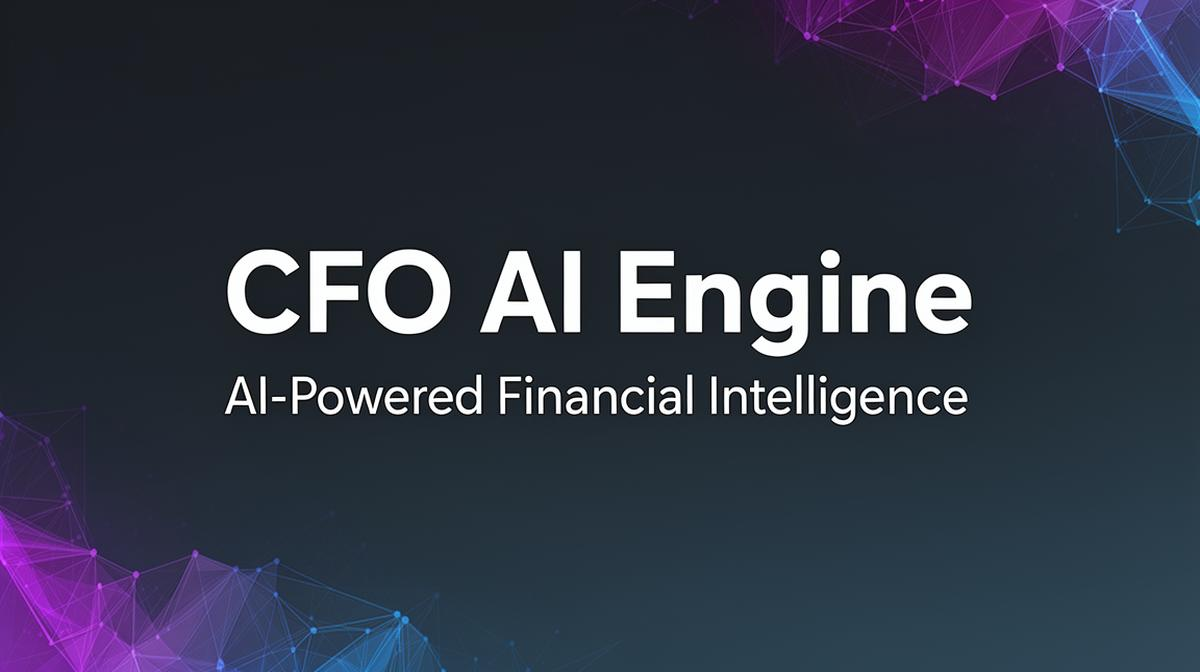
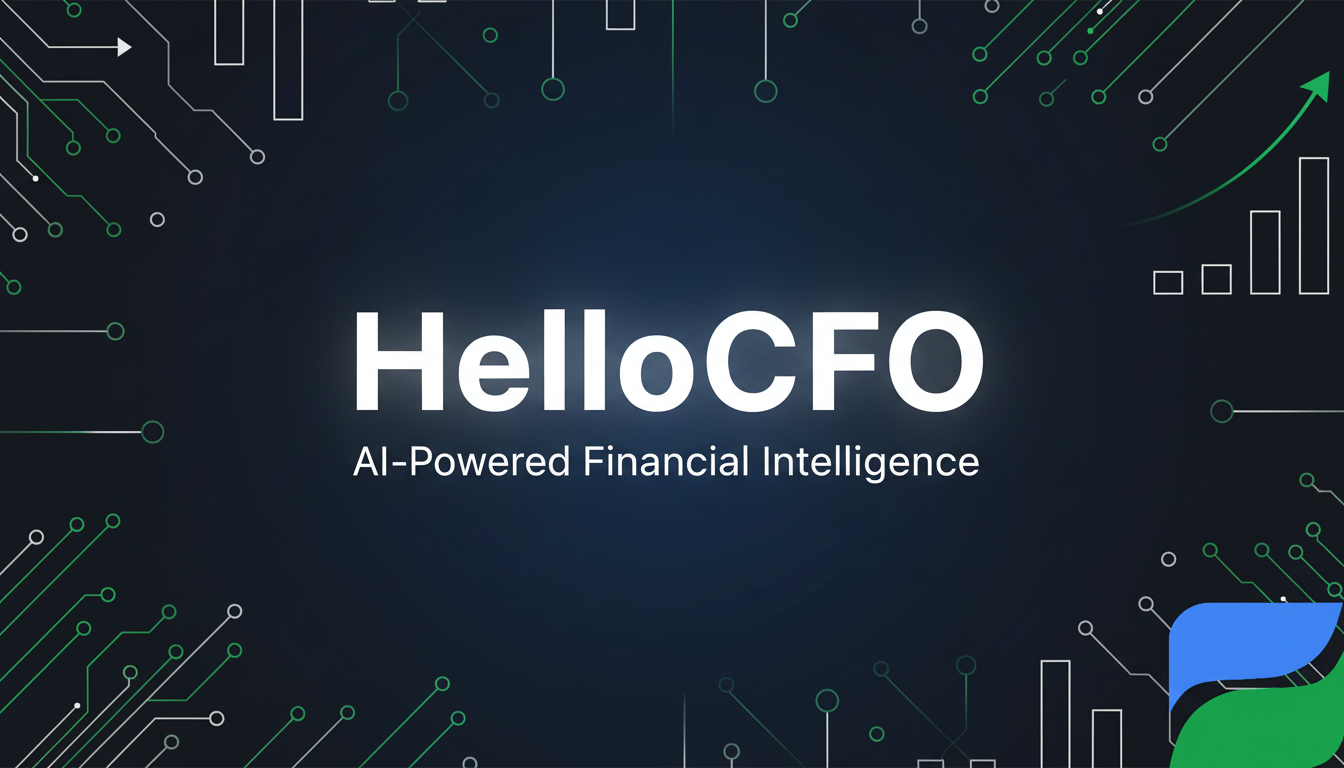
Changes

diff --git a/index.html b/index.html
@@ -10,11 +10,11 @@
     
     
     <meta property="og:type" content="website" />
-    <meta property="og:image" content="https://lovable.dev/opengraph-image-p98pqg.png" />
+    <meta property="og:image" content="/og-image.png" />
 
     <meta name="twitter:card" content="summary_large_image" />
-    <meta name="twitter:site" content="@CFO_AI" />
-    <meta name="twitter:image" content="https://lovable.dev/opengraph-image-p98pqg.png" />
+    <meta name="twitter:site" content="@HelloCFO" />
+    <meta name="twitter:image" content="/og-image.png" />
     <meta property="og:title" content="HelloCFO">
   <meta name="twitter:title" content="HelloCFO">
   <meta property="og:description" content="AI-powered CFO Query agent for intelligent financial chatbot management. Configure intents, data pipelines, and response templates with AI assistance.">
